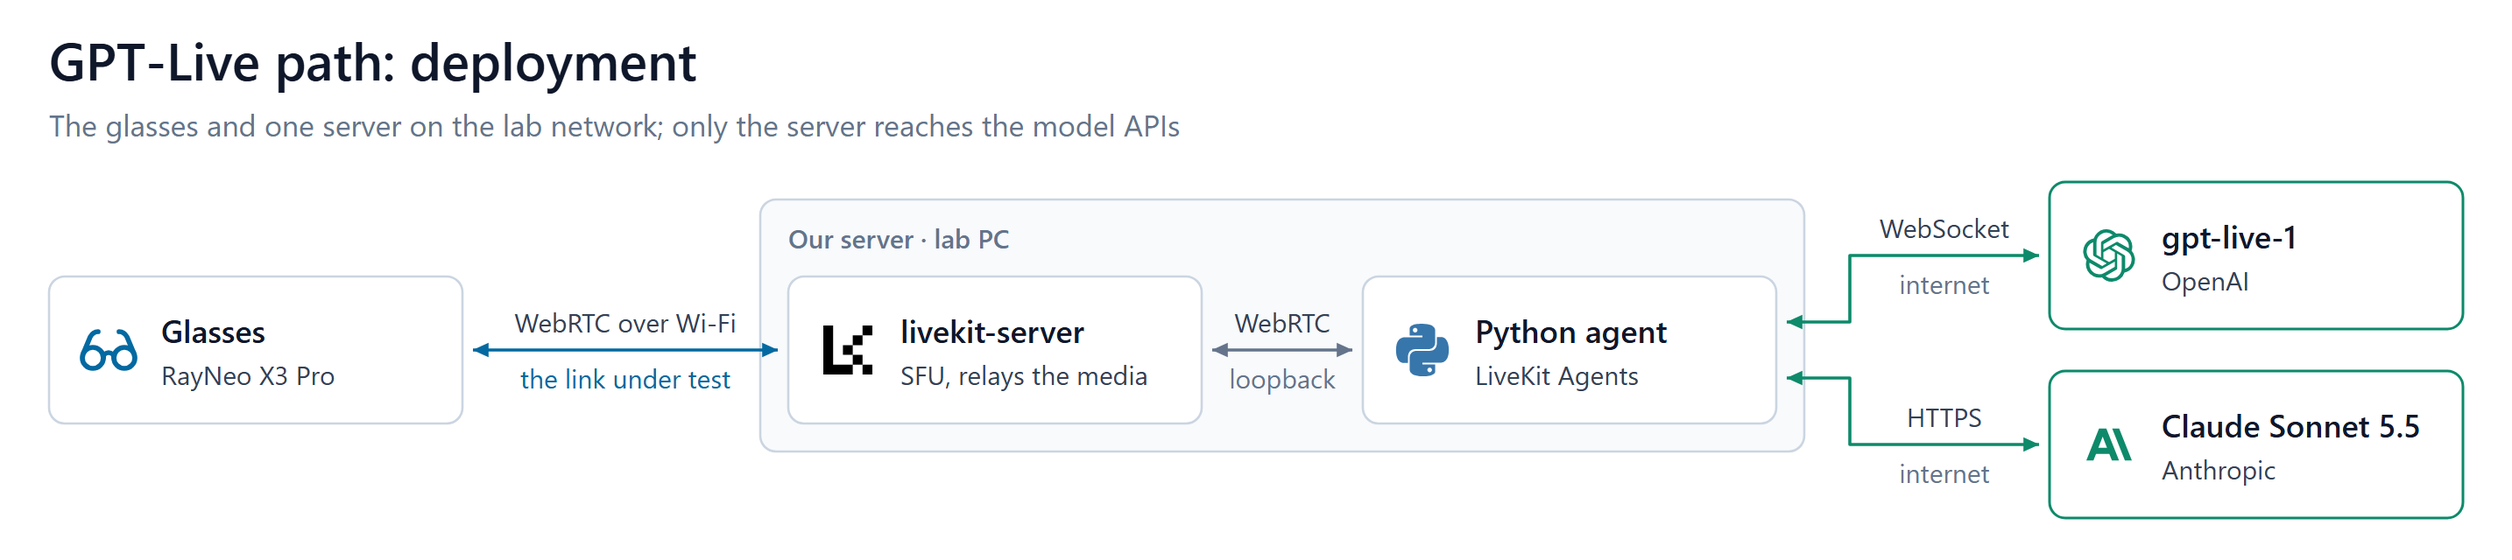
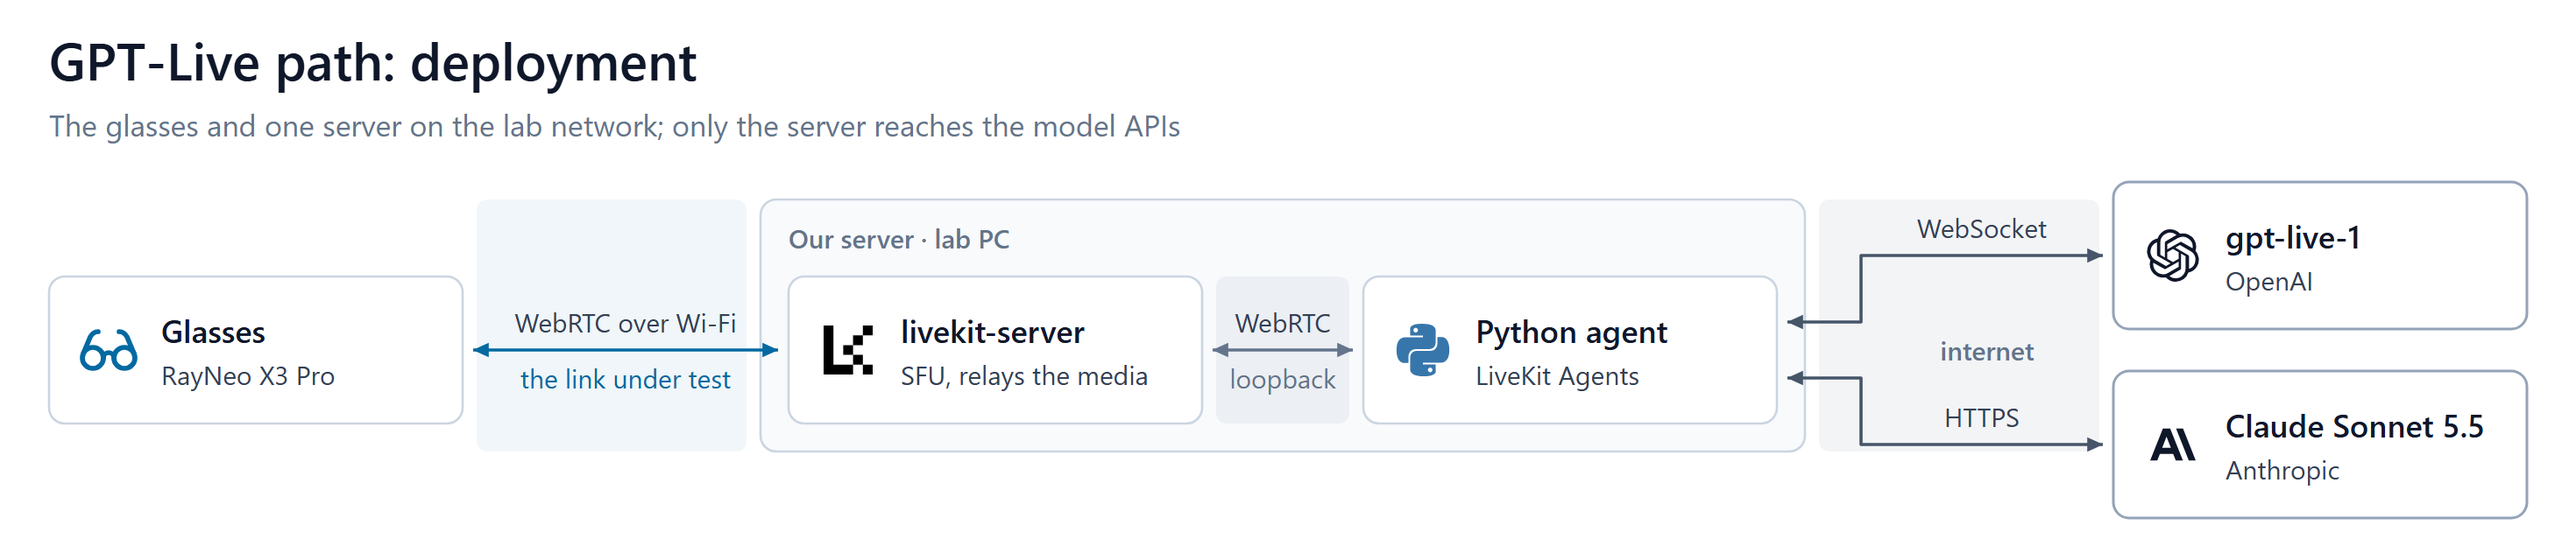
In both GPT-Live figures every hop between machines sits on a band of its own: blue for the Wi-Fi link under test, grey for loopback between livekit-server and the agent and for the internet to the model APIs, which the agent figure and the deployment figure now draw alike. The model APIs are drawn 

diff --git a/docs/make_gpt_live_agent.py b/docs/make_gpt_live_agent.py
@@ -23,11 +23,11 @@ ICONS = HERE / "icons"
 
 SANS = "Segoe UI, Inter, Helvetica Neue, Arial, sans-serif"
 
-# one palette for both figures: dark text, slate lines and borders, blue for the link under test, green for the
-# model APIs
+# one palette for both figures: dark text, slate lines and borders, blue for the link under test; every hop
+# between machines sits on a band of its own, blue for the one under test, grey for the others
 THEME = dict(
     background="#ffffff", card="#ffffff", frame="#f8fafc", edge="#cbd5e1", text="#0f172a", body="#334155",
-    muted="#64748b", accent="#0369a1", band="#0369a1", cloud="#0d8a6a", python="#3776AB", livekit="#000000",
+    muted="#64748b", accent="#0369a1", band="#0369a1", hop="#64748b", api="#475569", api_edge="#94a3b8", python="#3776AB", livekit="#000000",
 )
 
 # type scale ----------------------------------------------------------------
@@ -42,13 +42,14 @@ ROW_GAP = 8                      # added between rows
 PAD = 28
 GAP = 8                                          # around the band: glasses | band | agent
 INSET = 16                                       # inside the agent frame
-LINK = 172                                       # from a card to its model API card
+LINK = 204                                       # from a card to its model API card
 
 GX, GW = PAD, 132                                # glasses card
 BX1 = GX + GW + GAP                              # the WebRTC hop under test
 BX2 = BX1 + 172
 LX, LW = BX2 + GAP, 150                          # livekit-server: every connection to the glasses goes through it
 LOOP = 92                                        # livekit-server to the agent frame: loopback on our server
+NET = GAP                                        # the internet band stands this far off the frame and the API cards
 FX, FY = LX + LW + LOOP, 104                     # agent frame
 CX, CW = FX + INSET, 504                         # session and brain cards
 FW = CW + 2 * INSET
@@ -143,7 +144,7 @@ def build(t: dict) -> str:
         f'viewBox="0 0 {W} {H}" font-family="{SANS}">')
     add(f'<rect width="{W}" height="{H}" fill="{t["background"]}"/>')
     add('<defs>')
-    for mid, colour in (("head", t["accent"]), ("headm", t["muted"]), ("headv", t["cloud"])):
+    for mid, colour in (("head", t["accent"]), ("headm", t["muted"]), ("headv", t["api"])):
         add(f'''  <marker id="{mid}" viewBox="0 0 10 10" refX="9" refY="5"
           markerWidth="5.5" markerHeight="5.5" orient="auto-start-reverse">
     <path d="M0 0.8 L9.2 5 L0 9.2 Z" fill="{colour}"/>
@@ -196,7 +197,9 @@ def build(t: dict) -> str:
     text(lcx, GY + GH / 2 + 18, "livekit-server", T_ROW + 2, weight=600)
     text(lcx, GY + GH / 2 + 44, "SFU: forwards", T_LABEL, colour=t["body"])
     text(lcx, GY + GH / 2 + 64, "without decoding", T_LABEL, colour=t["body"])
-    loop_cx = (LX + LW + CX) / 2
+    lb1, lb2 = LX + LW + GAP, FX - GAP
+    add(f'<rect x="{lb1}" y="{GY}" width="{lb2 - lb1}" height="{GH}" rx="6" fill="{t["hop"]}" fill-opacity="0.08"/>')
+    loop_cx = (lb1 + lb2) / 2
     text(loop_cx, (SY + SH + RY) / 2 + 2, "WebRTC", T_LABEL, colour=t["muted"], weight=600)
     text(loop_cx, (SY + SH + RY) / 2 + 22, "loopback", T_LABEL, colour=t["muted"])
 
@@ -214,20 +217,24 @@ def build(t: dict) -> str:
             wire([(lx0, y), (gx1, y)], t["accent"], "head")
         label(lx, y, lines)
 
-    # model APIs
+    # model APIs, across the internet
+    nb1, nb2 = FX + FW + NET, KX - NET
+    add(f'<rect x="{nb1}" y="{GY}" width="{nb2 - nb1}" height="{GH}" rx="6" fill="{t["hop"]}" fill-opacity="0.08"/>')
+    ncx = (nb1 + nb2) / 2
+    text(ncx, (SY + SH + RY) / 2 + 10, "internet", T_LABEL, colour=t["muted"], weight=600)
     for line_y, name, size, title, sub, above, below in (
         (SY + SH / 2, "openai", 30, "gpt-live-1", "OpenAI", ["audio, session events"], "WebSocket"),
         (RY + RH / 2, "anthropic", 26, "Claude Sonnet 5.5", "Anthropic", ["frame, transcript", "and notes"],
          "HTTPS, one per look"),
     ):
         y, h = line_y - KH / 2, KH
-        box(KX, y, KW, h, t["cloud"], width=1.5)
-        add(place(name, KX + 32, y + h / 2 - size / 2, size, f'fill="{t["cloud"]}"'))
+        box(KX, y, KW, h, t["api_edge"], width=1.5)
+        add(place(name, KX + 32, y + h / 2 - size / 2, size, f'fill="{t["text"]}"'))
         text(KX + 60, y + h / 2 - 4, title, T_ROW + 2, "start", weight=600)
         text(KX + 60, y + h / 2 + 19, sub, T_LABEL, "start", t["body"])
-        wire([(CX + CW + 6, line_y), (KX - 6, line_y)], t["cloud"], "headv", both=True)
-        label((CX + CW + KX) / 2, line_y, above)
-        text((CX + CW + KX) / 2, line_y + 22, below, T_LABEL, colour=t["muted"])
+        wire([(CX + CW + 6, line_y), (KX - 6, line_y)], t["api"], "headv", both=True)
+        label(ncx, line_y, above)
+        text(ncx, line_y + 22, below, T_LABEL, colour=t["muted"])
 
     add("</svg>")
     return "\n".join(out)

diff --git a/docs/make_gpt_live_overview.py b/docs/make_gpt_live_overview.py
@@ -29,7 +29,7 @@ SANS = "Segoe UI, Inter, Helvetica Neue, Arial, sans-serif"
 # the palette of make_gpt_live_agent.py
 THEME = dict(
     background="#ffffff", card="#ffffff", frame="#f8fafc", edge="#cbd5e1", text="#0f172a", body="#334155",
-    muted="#64748b", accent="#0369a1", cloud="#0d8a6a", livekit="#000000", python="#3776AB",
+    muted="#64748b", accent="#0369a1", hop="#64748b", api="#475569", api_edge="#94a3b8", livekit="#000000", python="#3776AB",
 )
 
 # type scale: the agent figure's, sized for a slide ------------------------
@@ -47,7 +47,7 @@ SX1 = GLX + CW + 170             # our server: room for the Wi-Fi link's label
 LKX = SX1 + INSET                # livekit-server
 AGX = LKX + CW + 92              # the agent
 SX2 = AGX + CW + INSET
-KX = SX2 + 140                   # the model APIs
+KX = SX2 + 176                   # the model APIs
 K1, K2 = RC - 54, RC + 54        # their centre lines
 W, H = int(KX + CW + PAD), int(K2 + CH / 2 + 24)
 
@@ -86,6 +86,11 @@ def build(t: dict) -> str:
         text(x + 64, cy - 4, title, T_CARD, "start", weight=600)
         text(x + 64, cy + 20, sub, T_LABEL, "start", t["body"])
 
+    def band(x1, x2, y1, y2, colour):
+        """The ground under one hop between machines."""
+        add(f'<rect x="{x1}" y="{y1}" width="{x2 - x1}" height="{y2 - y1}" rx="6" fill="{colour}" '
+            f'fill-opacity="{0.06 if colour == t["accent"] else 0.08}"/>')
+
     def link(points, colour, marker, above, below, below_colour=None):
         """A two-way connection: the protocol above its last stretch, the network it crosses below, one line
         each or several."""
@@ -101,7 +106,7 @@ def build(t: dict) -> str:
         f'viewBox="0 0 {W} {H}" font-family="{SANS}">')
     add(f'<rect width="{W}" height="{H}" fill="{t["background"]}"/>')
     add('<defs>')
-    for mid, colour in (("head", t["accent"]), ("headm", t["muted"]), ("headv", t["cloud"])):
+    for mid, colour in (("head", t["accent"]), ("headm", t["muted"]), ("headv", t["api"])):
         add(f'''  <marker id="{mid}" viewBox="0 0 10 10" refX="9" refY="5"
           markerWidth="5.5" markerHeight="5.5" orient="auto-start-reverse">
     <path d="M0 0.8 L9.2 5 L0 9.2 Z" fill="{colour}"/>
@@ -116,21 +121,27 @@ def build(t: dict) -> str:
                'stroke-linecap="round" stroke-linejoin="round"')
     component(GLX, RC, "glasses", glasses, 36, "Glasses", "RayNeo X3 Pro")
 
-    box(SX1, RC - CH / 2 - 44, SX2 - SX1, CH + 44 + INSET, fill=t["frame"])
+    # each hop between machines on a band: blue for the one under test, grey for the others
+    xf = SX2 + 32                # where the agent's two links fork
+    ftop, fbot = RC - CH / 2 - 44, RC + CH / 2 + INSET
+    band(GLX + CW + 8, SX1 - 8, ftop, fbot, t["accent"])
+    band(SX2 + 8, KX - 8, ftop, fbot, t["hop"])
+    text((xf + KX) / 2, RC + 6, "internet", T_LABEL, colour=t["muted"], weight=600)
+    box(SX1, ftop, SX2 - SX1, fbot - ftop, fill=t["frame"])
+    band(LKX + CW + 8, AGX - 8, RC - CH / 2, RC + CH / 2, t["hop"])
     text(SX1 + INSET, RC - CH / 2 - 16, "Our server · lab PC", T_LABEL, "start", t["muted"], 600)
     component(LKX, RC, "livekit", f'fill="{t["livekit"]}"', 28, "livekit-server", "SFU, relays the media")
     component(AGX, RC, "python", f'fill="{t["python"]}"', 30, "Python agent", "LiveKit Agents")
 
-    component(KX, K1, "openai", f'fill="{t["cloud"]}"', 30, "gpt-live-1", "OpenAI", t["cloud"])
-    component(KX, K2, "anthropic", f'fill="{t["cloud"]}"', 26, "Claude Sonnet 5.5", "Anthropic", t["cloud"])
+    component(KX, K1, "openai", f'fill="{t["text"]}"', 30, "gpt-live-1", "OpenAI", t["api_edge"])
+    component(KX, K2, "anthropic", f'fill="{t["text"]}"', 26, "Claude Sonnet 5.5", "Anthropic", t["api_edge"])
 
     link([(GLX + CW + 6, RC), (LKX - 6, RC)], t["accent"], "head", "WebRTC over Wi-Fi", "the link under test", t["accent"])
     link([(LKX + CW + 6, RC), (AGX - 6, RC)], t["muted"], "headm", "WebRTC", "loopback")
-    xf = SX2 + 26
-    link([(AGX + CW + 6, RC - 16), (xf, RC - 16), (xf, K1), (KX - 6, K1)], t["cloud"], "headv",
-         "WebSocket", "internet")
-    link([(AGX + CW + 6, RC + 16), (xf, RC + 16), (xf, K2), (KX - 6, K2)], t["cloud"], "headv",
-         "HTTPS", "internet")
+    link([(AGX + CW + 6, RC - 16), (xf, RC - 16), (xf, K1), (KX - 6, K1)], t["api"], "headv",
+         "WebSocket", [])
+    link([(AGX + CW + 6, RC + 16), (xf, RC + 16), (xf, K2), (KX - 6, K2)], t["api"], "headv",
+         "HTTPS", [])
 
     add("</svg>")
     return "\n".join(out)
